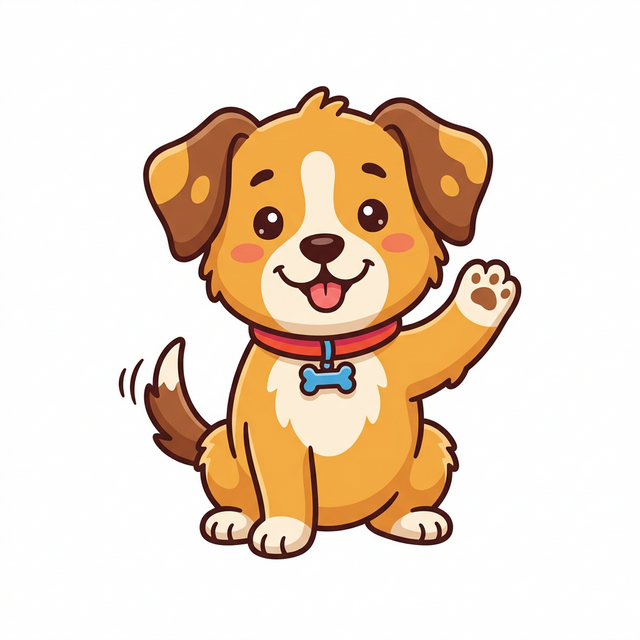
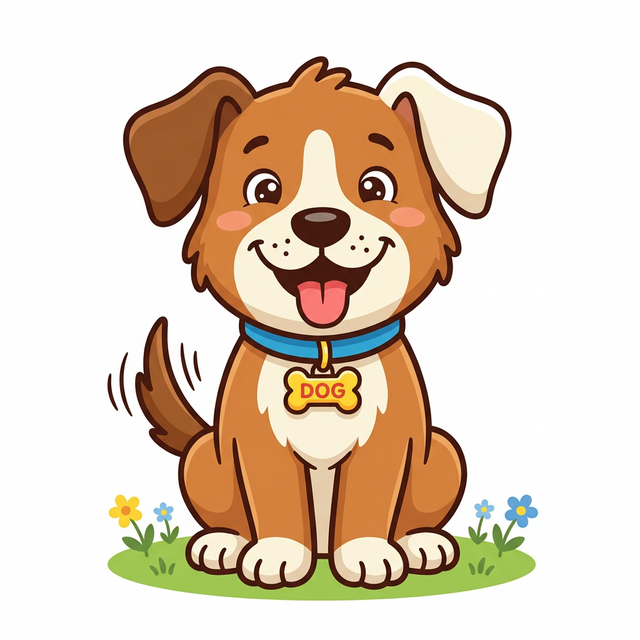
修复后台数据接收与评分逻辑；补全 U1L2 图片与口语题；上线指定课程直达功能

diff --git a/script_engine.js b/script_engine.js
@@ -29,7 +29,15 @@ function getSessionId() {
 
 function initEngine(mode) {
     currentMode = mode;
-    console.log("Engine Loaded: Grade 3 Second Term (下学期) Integrated Quiz V2.0");
+    console.log("Engine Loaded: Grade 3 Second Term Integrated Quiz V2.1");
+
+    // --- 新增：自动加载功能 (解决学生不会点课的问题) ---
+    const urlParams = new URLSearchParams(window.location.search);
+    const autoLesson = urlParams.get('lesson');
+    if (autoLesson) {
+        console.log("检测到指定课程，自动加载:", autoLesson);
+        loadPaper(autoLesson);
+    }
 }
 
 window.LOAD_QUIZ = function (data) {
@@ -56,11 +64,13 @@ function loadPaper(path) {
 }
 
 function startExam() {
-    const student = document.getElementById('selectedStudentName').value;
-    if (!student) { alert("请先点击选择名字！"); return; }
+    const studentName = document.getElementById('selectedStudentName').value;
+    if (!studentName) { alert("请先点击选择你的名字！"); return; }
+
     toggleDisplay('setupBox', false);
     toggleDisplay('quizInterface', true);
-    document.getElementById('studentNameDisplay').innerText = student;
+    document.getElementById('studentNameDisplay').innerText = studentName;
+
     currentQIndex = 0;
     answers = {};
     isSpeakingPhase = false;
@@ -187,44 +197,65 @@ function startSpeakingPhase() {
 
 // 🔥 核心评分算法：25/25/25/25 权重 🔥
 function calculateTotalScore() {
-    let parts = { 'A': { correct: 0, total: 0 }, 'B': { correct: 0, total: 0 }, 'C': { correct: 0, total: 0 }, 'D': { score: 0, max: 0 } };
+    let parts = {
+        'A': { correct: 0, total: 0 },
+        'B': { correct: 0, total: 0 },
+        'C': { correct: 0, total: 0 },
+        'D': { score: 0, max: 0 }
+    };
 
     currentData.questions.forEach(q => {
         if (q.part === 'D') {
-            parts['D'].total += 1;
+            parts['D'].total++;
             parts['D'].score += parseInt(answers['Q' + q.qNum]) || 0;
             parts['D'].max += 5;
         } else {
-            parts[q.part].total += 1;
-            const userAns = (answers['Q' + q.qNum] || "").toLowerCase().trim().replace(/[.,?!]/g, '');
-            const correctAns = q.correct.toLowerCase().trim().replace(/[.,?!]/g, '');
-            if (userAns === correctAns) parts[q.part].correct += 1;
+            parts[q.part].total++;
+            const userVal = (answers['Q' + q.qNum] || "").toString().toLowerCase().trim().replace(/[.,?!]/g, '');
+            const correctVal = q.correct.toString().toLowerCase().trim().replace(/[.,?!]/g, '');
+            if (userVal === correctVal) {
+                parts[q.part].correct++;
+            }
         }
     });
 
-    const getPartPercent = (p) => parts[p].total > 0 ? (p === 'D' ? (parts[p].score / parts[p].max) : (parts[p].correct / parts[p].total)) : 0;
+    // 计算各部分百分率，如果没有该部分题目，默认给满分比率(1.0)还是0？
+    // 教学上通常如果没有口语，那就按三部分分摊，但这里强制要求 25/25/25/25 的话，
+    // 如果没有 Part D，那 Part D 自动得 0 分，总分最高 75。
+    // 为了防止出现 0%，我们加个保护。
+    const getPartScore = (p) => {
+        if (parts[p].total === 0 && p !== 'D') return 25; // 如果没这部分题目，默认给这部分满分（或根据需求调整）
+        if (p === 'D') {
+            return parts['D'].max > 0 ? Math.round((parts['D'].score / parts['D'].max) * 25) : 0;
+        } else {
+            return parts[p].total > 0 ? Math.round((parts[p].correct / parts[p].total) * 25) : 0;
+        }
+    };
 
-    const scoreA = Math.round(getPartPercent('A') * 25);
-    const scoreB = Math.round(getPartPercent('B') * 25);
-    const scoreC = Math.round(getPartPercent('C') * 25);
-    const scoreD = Math.round(getPartPercent('D') * 25);
+    const scA = getPartScore('A');
+    const scB = getPartScore('B');
+    const scC = getPartScore('C');
+    const scD = getPartScore('D');
 
-    return { total: scoreA + scoreB + scoreC + scoreD, A: scoreA, B: scoreB, C: scoreC, D: scoreD };
+    return { total: scA + scB + scC + scD, A: scA, B: scB, C: scC, D: scD };
 }
 
 function submit() {
-    clearInterval(timerInterval);
+    if (timerInterval) clearInterval(timerInterval);
     toggleDisplay('quizInterface', false);
     toggleDisplay('submittingBox', true);
 
     const results = calculateTotalScore();
     const studentName = document.getElementById('studentNameDisplay').innerText;
 
+    // 打印调试，防止上传 0%
+    console.log("Submission Debug:", results, answers);
+
     const payload = {
         sessionId: getSessionId(),
         studentName: studentName,
-        lessonTitle: "[下学期] " + currentData.title,
-        examType: "Integrated",
+        lessonTitle: "[综合挑战] " + currentData.title,
+        examType: "Integrated-S2",
         score: results.total,
         listeningScore: results.A,
         readingScore: results.B,
@@ -233,9 +264,17 @@ function submit() {
     };
 
     const queryParams = Object.keys(payload).map(k => k + '=' + encodeURIComponent(payload[k])).join('&');
-    fetch(GOOGLE_SCRIPT_URL + '?' + queryParams, { method: 'GET', mode: 'no-cors' })
-        .then(() => showFinalResult(results.total, studentName))
-        .catch(() => showFinalResult(results.total, studentName, false));
+    const fullUrl = GOOGLE_SCRIPT_URL + '?' + queryParams;
+
+    fetch(fullUrl, { method: 'GET', mode: 'no-cors' })
+        .then(() => {
+            console.log("Upload Success");
+            showFinalResult(results.total, studentName);
+        })
+        .catch(err => {
+            console.error("Upload Failed:", err);
+            showFinalResult(results.total, studentName, false);
+        });
 }
 
 function showFinalResult(score, name, success = true) {

diff --git a/data/written/u1_l2.js b/data/written/u1_l2.js
@@ -14,10 +14,11 @@ window.LOAD_QUIZ({
             qNum: 1,
             part: 'A',
             type: 'select',
-            text: '听录音，选出正确的回答。<br><span style="font-size:14px;color:#666">(Listen and choose the answer)</span>',
+            text: '听录音，选出正确的回答。<br><span style="font-size:14px;color:#666">(Listen and choose)</span>',
             audioText: 'Do you like dogs?',
             options: ['A. Yes, I do.', 'B. I am a dog.', 'C. It is a dog.', 'D. Hello, dog.'],
-            correct: 'A. Yes, I do.'
+            correct: 'A. Yes, I do.',
+            imageUri: 'img/dog.png'
         },
         {
             qNum: 2,
@@ -26,7 +27,8 @@ window.LOAD_QUIZ({
             text: '听录音，选出正确的中文意思。<br><span style="font-size:14px;color:#666">(Listen and choose the meaning)</span>',
             audioText: 'Do you like cats?',
             options: ['A. 你喜欢狗吗？', 'B. 你喜欢猫吗？', 'C. 我喜欢猫。', 'D. 这是一只猫。'],
-            correct: 'B. 你喜欢猫吗？'
+            correct: 'B. 你喜欢猫吗？',
+            imageUri: 'img/cat.png'
         },
         {
             qNum: 3,
@@ -35,7 +37,8 @@ window.LOAD_QUIZ({
             text: '听录音，选出你听到的动物。<br><span style="font-size:14px;color:#666">(Listen and choose)</span>',
             audioText: 'I like pandas. Pandas are cute.',
             options: ['A. cat', 'B. dog', 'C. panda', 'D. rabbit'],
-            correct: 'C. panda'
+            correct: 'C. panda',
+            imageUri: 'img/panda.png'
         },
         {
             qNum: 4,
@@ -44,7 +47,8 @@ window.LOAD_QUIZ({
             text: '听录音选词填空：Do you like ______?<br><span style="font-size:14px;color:#666">(Listen and complete)</span>',
             audioText: 'Do you like rabbits?',
             options: ['A. cats', 'B. rabbits', 'C. birds', 'D. dogs'],
-            correct: 'B. rabbits'
+            correct: 'B. rabbits',
+            imageUri: 'img/rabbit.png'
         },
         {
             qNum: 5,
@@ -52,8 +56,9 @@ window.LOAD_QUIZ({
             type: 'select',
             text: '听对话，选出正确答案。<br>"Do you like birds?" "No, I don\'t."<br><span style="font-size:14px;color:#666">(Does he/she like birds?)</span>',
             audioText: 'Do you like birds? No, I don\'t.',
-            options: ['A. 是的，喜欢。', 'B. 不，不喜欢。'],
-            correct: 'B. 不，不喜欢。'
+            options: ['A. 是和，喜欢。', 'B. 不，不喜欢。'],
+            correct: 'B. 不，不喜欢。',
+            imageUri: 'img/bird.png'
         },
 
         // ===========================
@@ -65,7 +70,8 @@ window.LOAD_QUIZ({
             type: 'select',
             text: '"Do you like dogs?" 是什么意思？',
             options: ['A. 你喜欢猫吗？', 'B. 你有狗吗？', 'C. 你喜欢狗吗？', 'D. 这是狗吗？'],
-            correct: 'C. 你喜欢狗吗？'
+            correct: 'C. 你喜欢狗吗？',
+            imageUri: 'img/dog.png'
         },
         {
             qNum: 7,
@@ -81,7 +87,8 @@ window.LOAD_QUIZ({
             type: 'select',
             text: '"panda" 的中文是什么？',
             options: ['A. 老虎', 'B. 猴子', 'C. 熊猫', 'D. 大象'],
-            correct: 'C. 熊猫'
+            correct: 'C. 熊猫',
+            imageUri: 'img/panda.png'
         },
         {
             qNum: 9,
@@ -141,7 +148,46 @@ window.LOAD_QUIZ({
             type: 'select',
             text: '选出正确的拼写（鸭子）。',
             options: ['A. dack', 'B. duck', 'C. duk', 'D. dukc'],
-            correct: 'B. duck'
+            correct: 'B. duck',
+            imageUri: 'img/duck.png'
+        },
+
+        // ===========================
+        // Part D: Speaking (口语 5题)
+        // ===========================
+        {
+            qNum: 16,
+            part: 'D',
+            text: '读出句子：Do you like dogs?',
+            imageUri: 'img/dog.png',
+            score: 5
+        },
+        {
+            qNum: 17,
+            part: 'D',
+            text: '回答问题：Do you like pandas? (Yes, I do / No, I don\'t)',
+            imageUri: 'img/panda.png',
+            score: 5
+        },
+        {
+            qNum: 18,
+            part: 'D',
+            text: '读出单词：Rabbit, Bird, Duck.',
+            score: 5
+        },
+        {
+            qNum: 19,
+            part: 'D',
+            text: '看图说话：I like penguins. (或 I like rabbits)',
+            imageUri: 'img/rabbit.png',
+            score: 5
+        },
+        {
+            qNum: 20,
+            part: 'D',
+            text: '对话练习：沈老师问 "Do you like cats?" 你根据自己的真实想法回答。',
+            imageUri: 'img/cat.png',
+            score: 5
         }
     ]
 });
